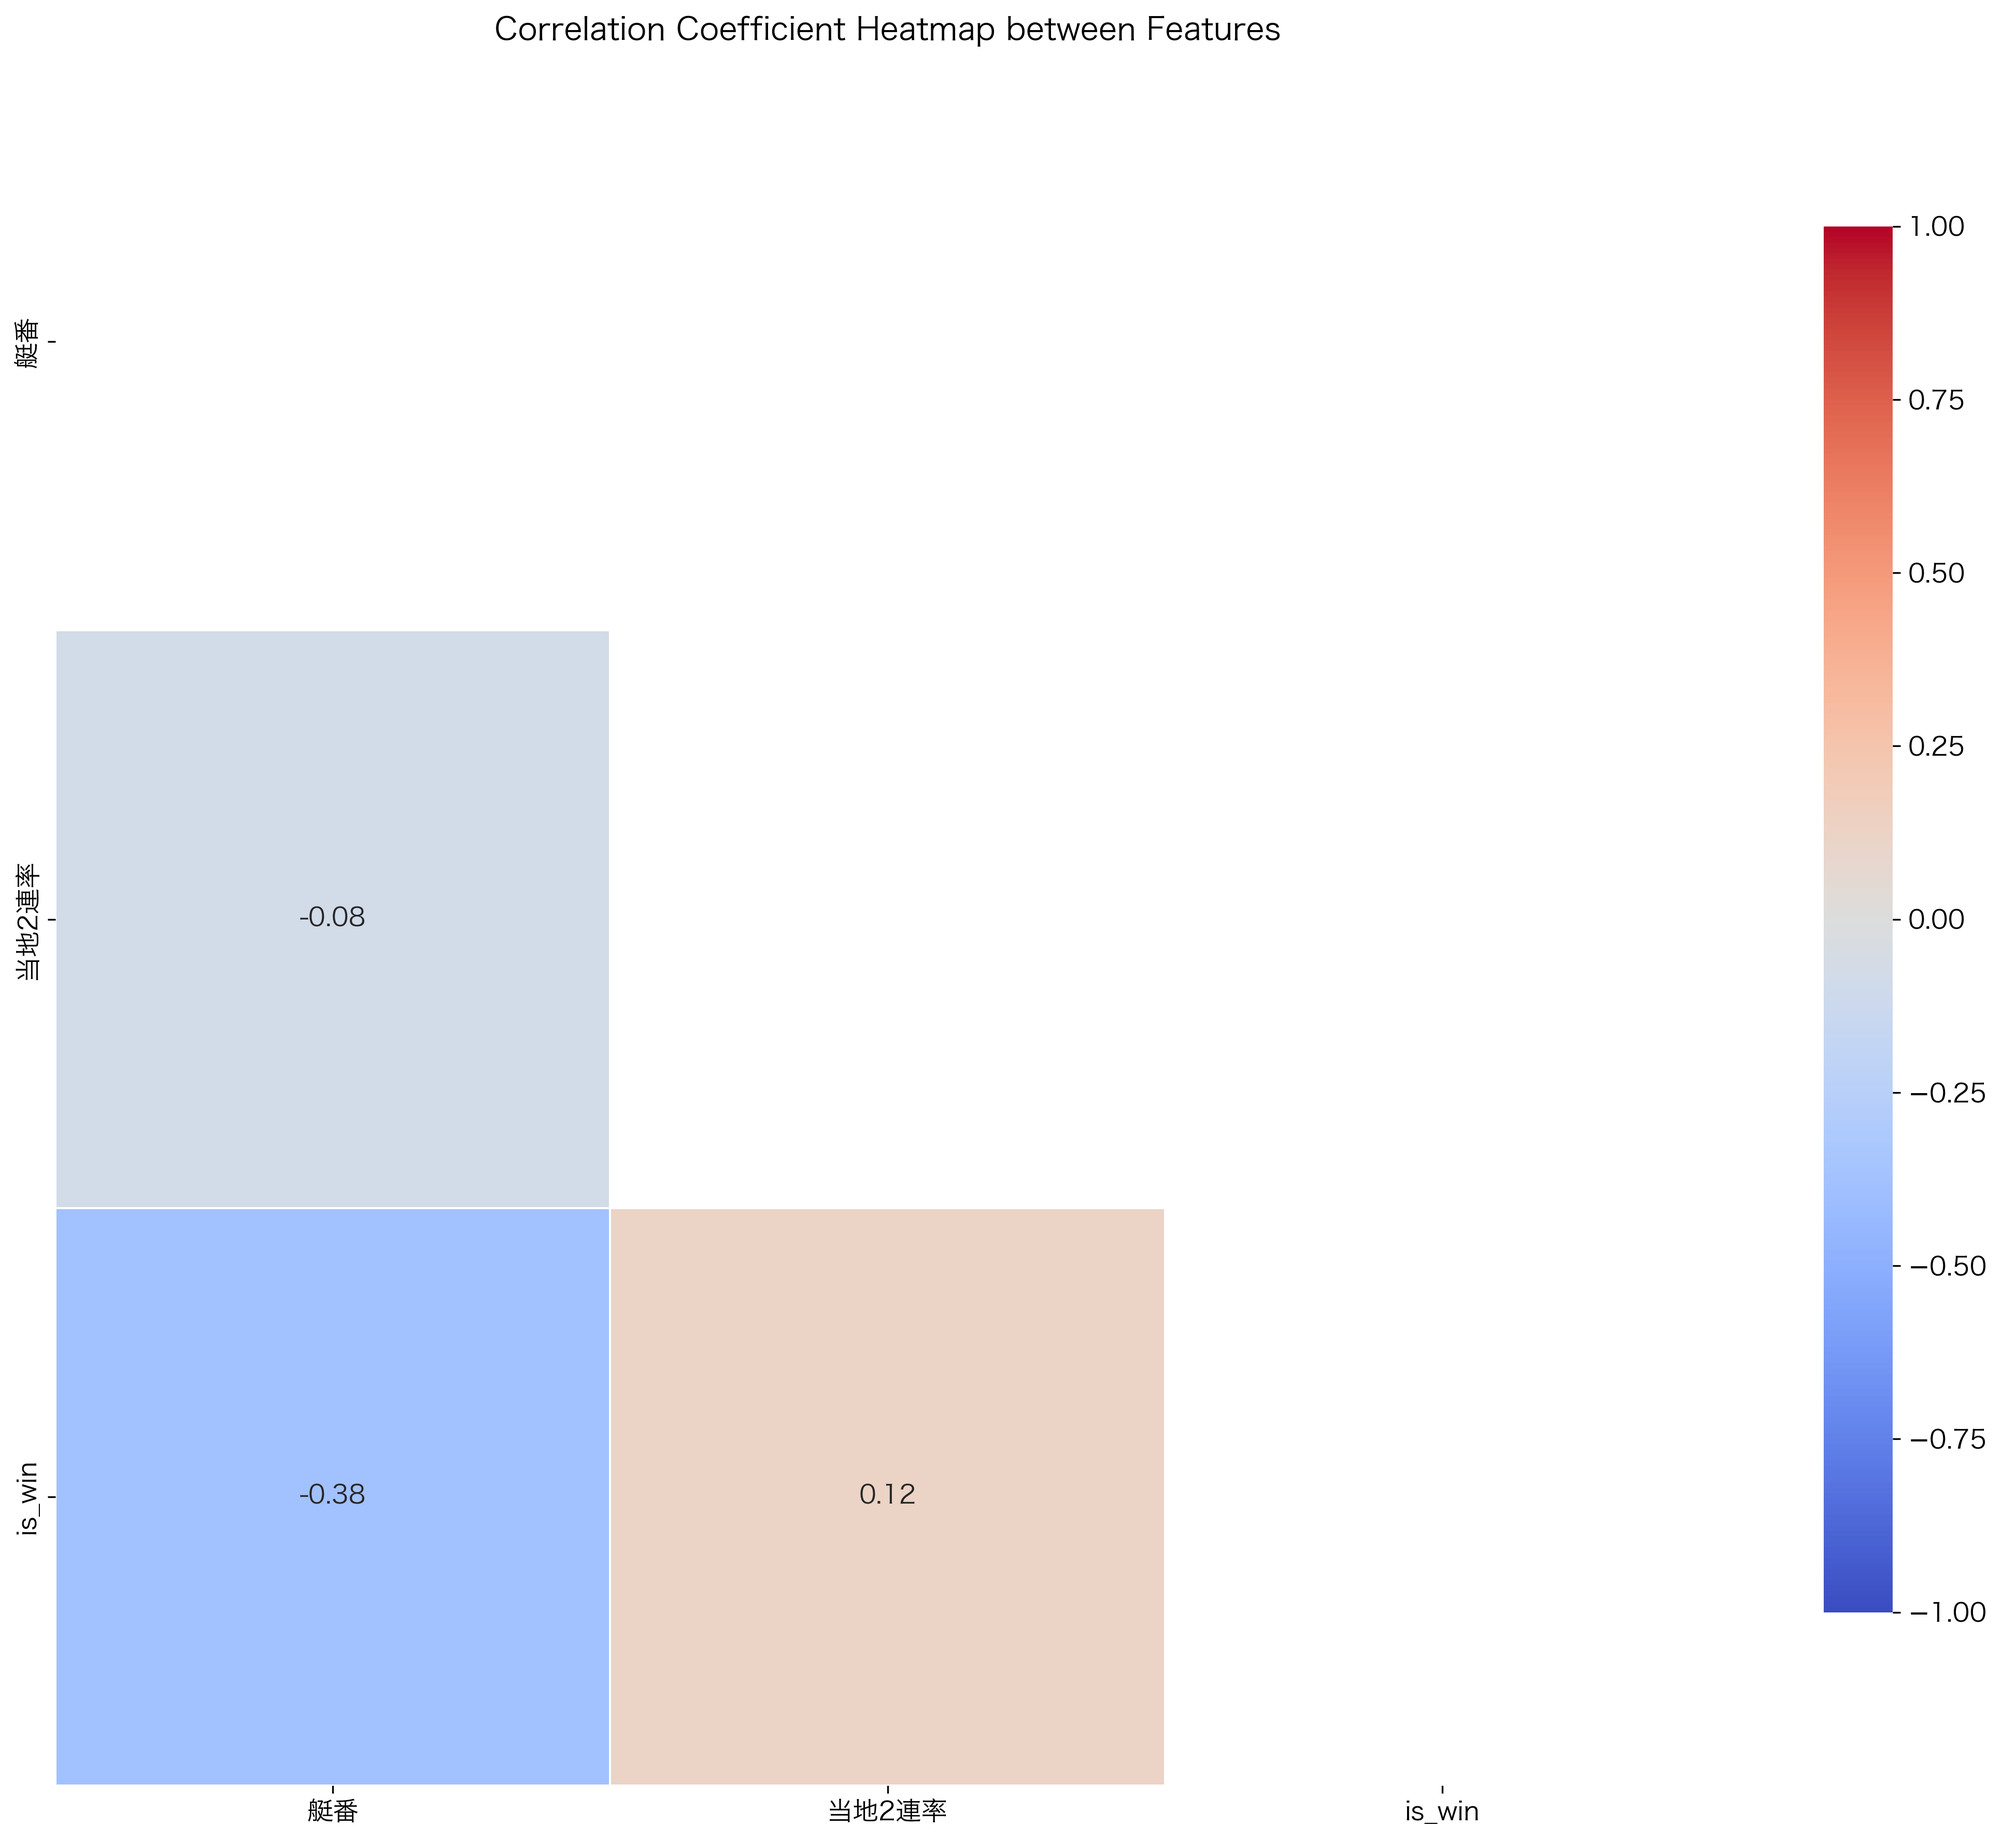
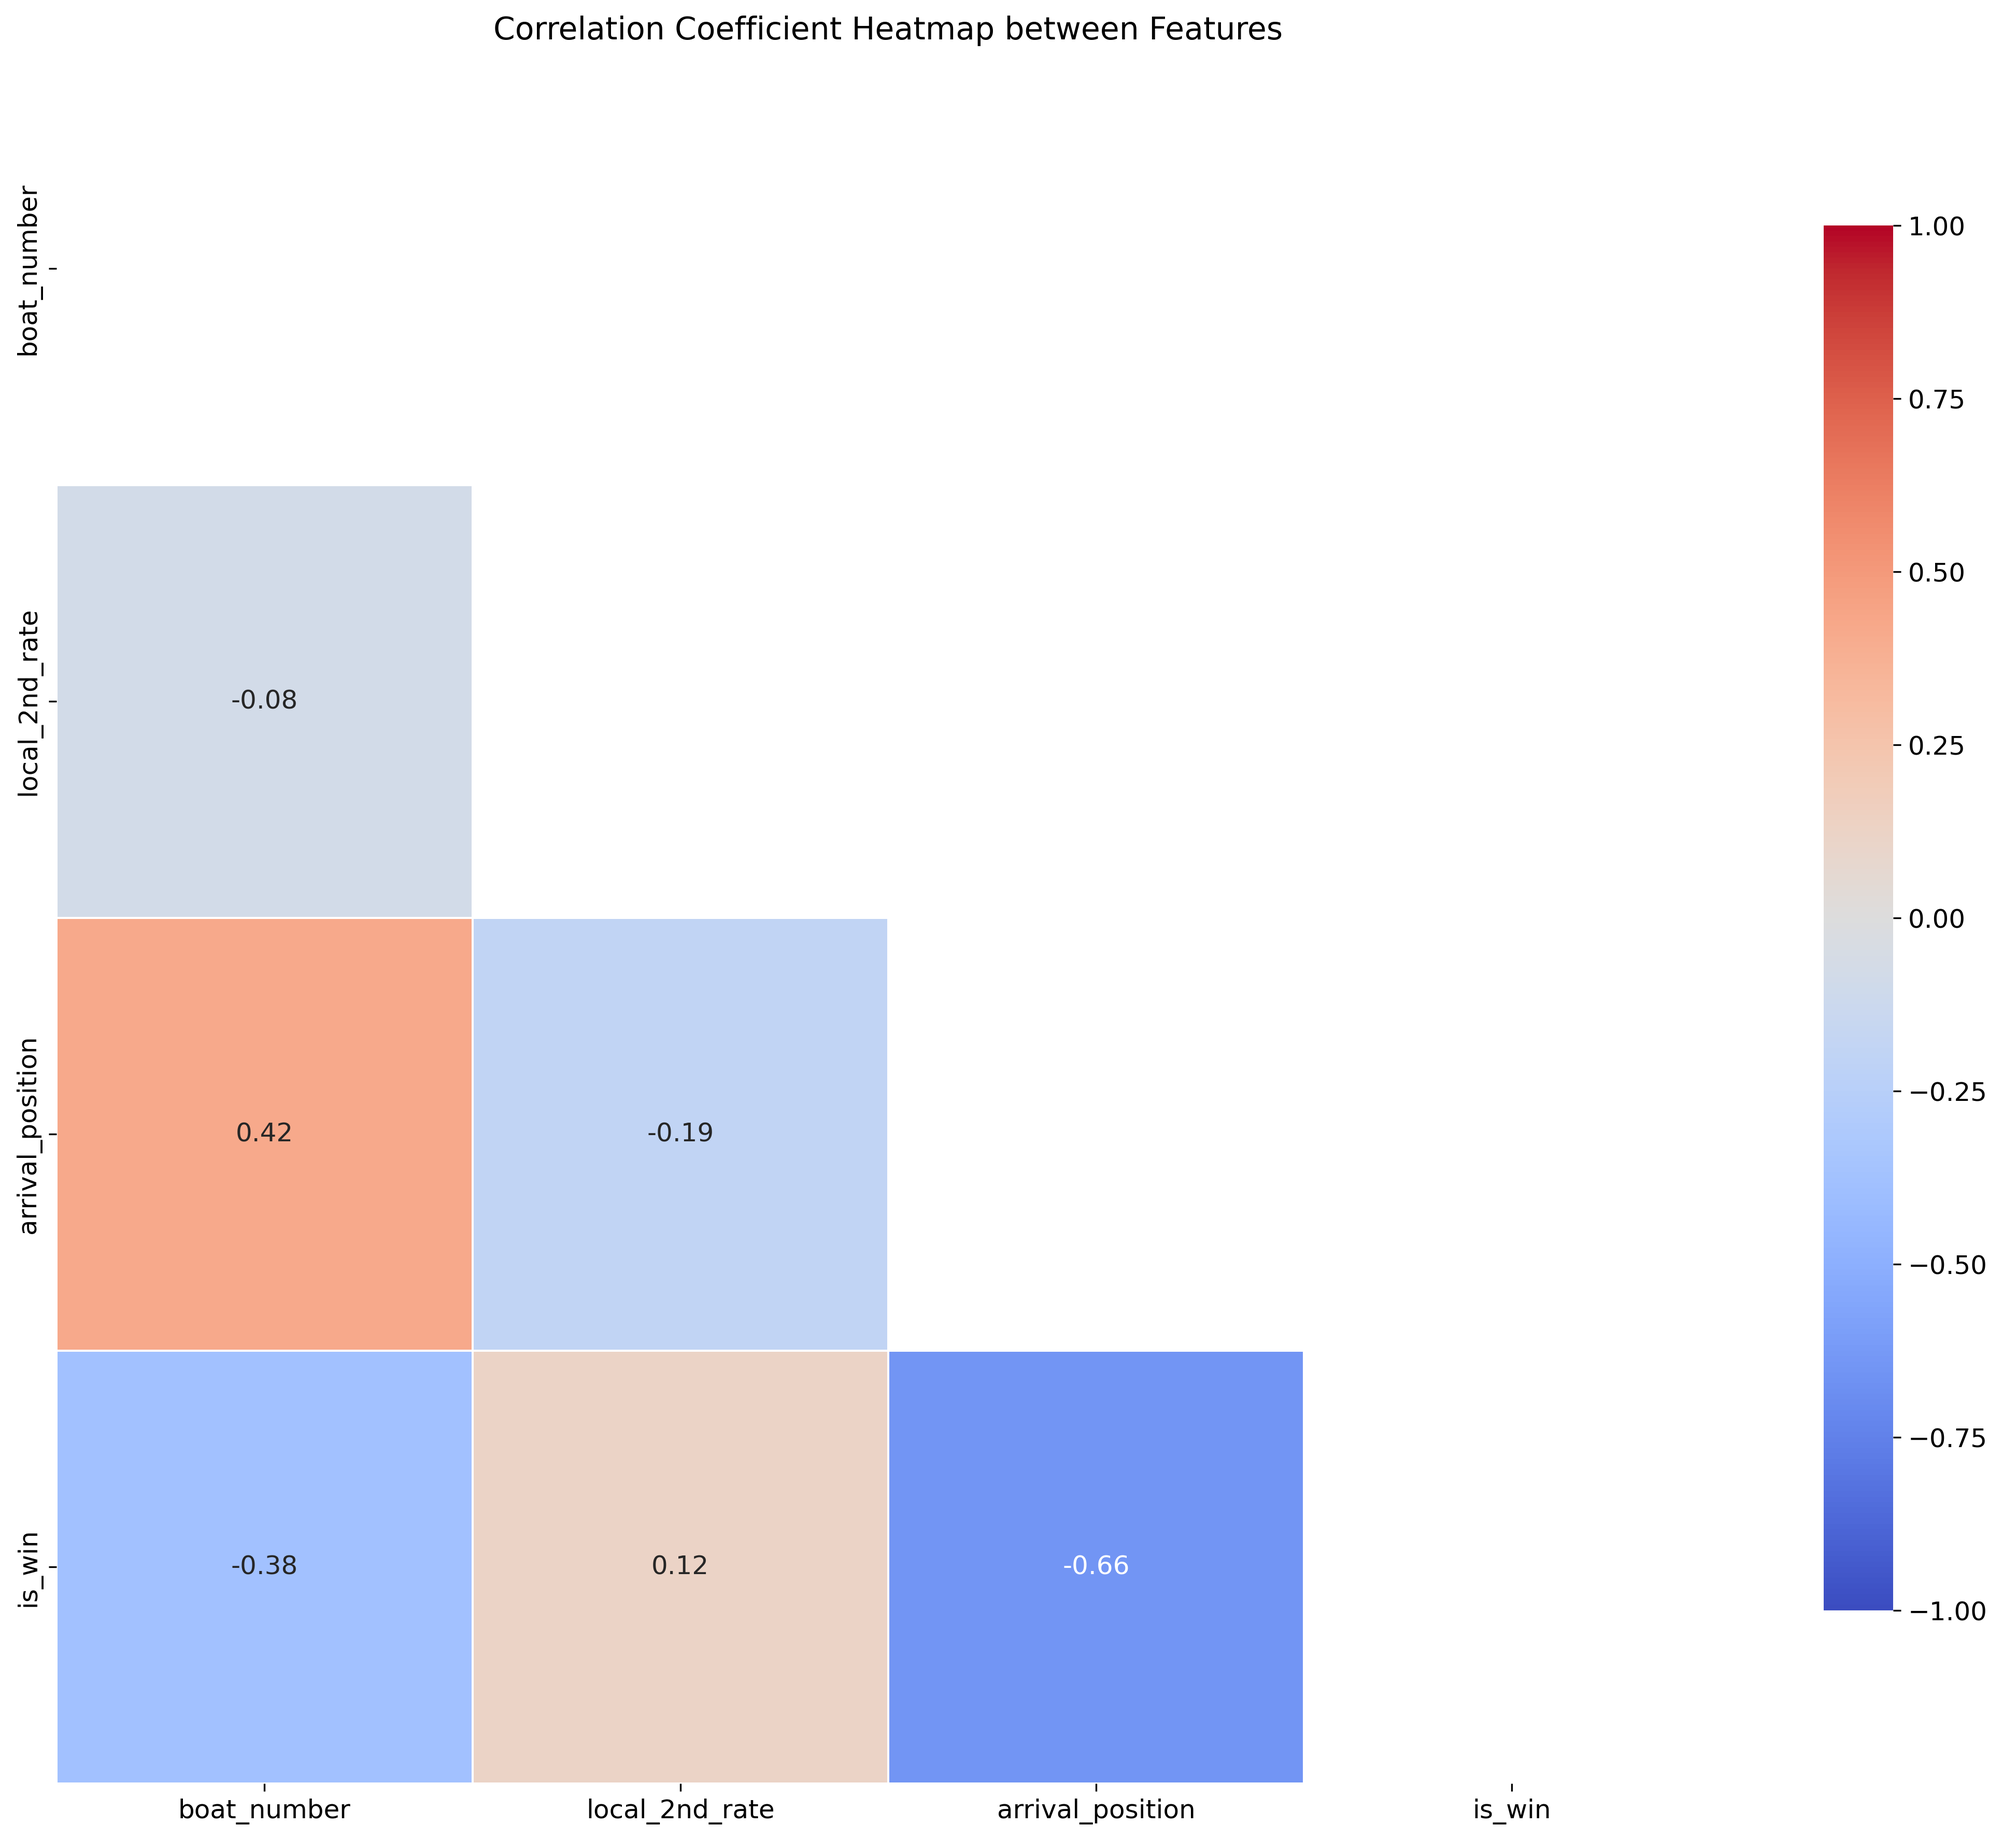
Add function to convert Japanese column names into English

diff --git a/scripts/4_explore_data.py b/scripts/4_explore_data.py
@@ -24,9 +24,14 @@ from tabulate import tabulate
 import matplotlib as mpl
 from sklearn.preprocessing import LabelEncoder
 
+# Add the project root directory to the Python path to import modules from there
+sys.path.insert(0, os.path.abspath(os.path.join(os.path.dirname(__file__), '..')))
+# Import translation function from utils.py
+from utils import translate_columns_to_english, get_japanese_to_english_columns_mapping
 
-# Japanese font settings
-mpl.rcParams['font.family'] = ['Hiragino Sans GB', 'AppleGothic', 'Yu Gothic', 'Meiryo', 'sans-serif']
+
+# Font settings - changed from Japanese-specific to use standard sans-serif
+mpl.rcParams['font.family'] = ['sans-serif']
 # Set font size larger
 plt.rcParams['font.size'] = 12
 # Check the directory for saving graphs
@@ -56,6 +61,23 @@ def analyze_data(input_file):
         # Read the CSV file
         print(f"Reading file '{input_file}'...")
         df = pd.read_csv(input_file)
+        
+        # Store original Japanese column names for reference
+        original_columns = df.columns.tolist()
+        
+        # Get mapping dictionary for later reference
+        column_mapping = get_japanese_to_english_columns_mapping()
+        
+        # Translate column names from Japanese to English
+        df = translate_columns_to_english(df)
+        
+        # Show mapping between Japanese and English column names
+        print("\n===== Column Name Translation (Japanese -> English) =====")
+        for orig_col in original_columns:
+            if orig_col in column_mapping:
+                print(f"{orig_col} -> {column_mapping[orig_col]}")
+            else:
+                print(f"{orig_col} -> (no translation available)")
         
         # Display basic information
         print("\n===== Basic Data Information =====")
@@ -166,15 +188,16 @@ def analyze_data(input_file):
         
         # Analyze date columns
         try:
-            if 'date' in df.columns:
+            date_col = 'date'
+            if date_col in df.columns:
                 print("\n===== Analysis of Date Column =====")
-                df['date'] = pd.to_datetime(df['date'])
-                date_range = df['date'].max() - df['date'].min()
-                print(f"Date range: {df['date'].min()} to {df['date'].max()} ({date_range.days} days)")
-                print(f"Number of unique dates: {df['date'].nunique()}")
+                df[date_col] = pd.to_datetime(df[date_col])
+                date_range = df[date_col].max() - df[date_col].min()
+                print(f"Date range: {df[date_col].min()} to {df[date_col].max()} ({date_range.days} days)")
+                print(f"Number of unique dates: {df[date_col].nunique()}")
                 
                 # Data count by month
-                monthly_counts = df['date'].dt.to_period('M').value_counts().sort_index()
+                monthly_counts = df[date_col].dt.to_period('M').value_counts().sort_index()
                 print("\nData count by month:")
                 for period, count in monthly_counts.items():
                     print(f"{period}: {count} entries")
@@ -185,10 +208,18 @@ def analyze_data(input_file):
         print("\n===== Analysis of Target Variable (Rank 1 or Not) =====")
         
         # Create is_win column indicating whether the rank is 1st or not (if not exists)
-        if "is_win" not in df.columns and "着" in df.columns:  # "着" means "Rank"
-            df["is_win"] = df["着"].apply(lambda x: 1 if x == 1 else 0)
-            print("Created is_win column from rank")
-        elif "is_win" not in df.columns:
+        arrival_position_col = 'arrival_position'
+        is_win_col = 'is_win'
+        
+        # Check if is_win exists or can be created from arrival_position (formerly "着")
+        if is_win_col not in df.columns and arrival_position_col in df.columns:
+            df[is_win_col] = df[arrival_position_col].apply(lambda x: 1 if x == 1 else 0)
+            print(f"Created {is_win_col} column from {arrival_position_col}")
+        elif is_win_col not in df.columns and "着" in original_columns:  # Handle case where column wasn't translated
+            japanese_col = "着"
+            df[is_win_col] = df[japanese_col].apply(lambda x: 1 if x == 1 else 0)
+            print(f"Created {is_win_col} column from {japanese_col}")
+        elif is_win_col not in df.columns:
             print("Warning: Skipping target variable analysis due to lack of rank data")
             return True
         
@@ -321,7 +352,7 @@ def analyze_data(input_file):
             for col in selected_cats:
                 # Calculate win rate by category
                 if df[col].nunique() <= 15:  # Only if the number of categories is not too large
-                    win_rate_by_cat = df.groupby(col)["is_win"].mean().sort_values(ascending=False)
+                    win_rate_by_cat = df.groupby(col)[is_win_col].mean().sort_values(ascending=False)
                     counts_by_cat = df.groupby(col).size()
                     
                     # Create dataframe to display
@@ -352,17 +383,45 @@ def analyze_data(input_file):
                     plt.grid(axis='y', linestyle='--', alpha=0.7)
                     plt.tight_layout()
                     
-                    # Save graph
-                    graph_path = f"{GRAPHS_DIR}/win_rate_by_{col.replace(' ', '_')}.png"
+                    # Generate a safe filename without Japanese characters
+                    safe_col_name = col.replace(' ', '_').replace('/', '_')
+                    graph_path = f"{GRAPHS_DIR}/win_rate_by_{safe_col_name}.png"
                     plt.savefig(graph_path, dpi=300, bbox_inches='tight')
                     print(f"Saved win rate graph: {graph_path}")
                     plt.close()
         
         # Relationship between target variable and boat number
-        if "艇番" in df.columns:  # "艇番" means "Boat Number"
+        boat_number_col = 'boat_number'
+        if boat_number_col in df.columns:
             plt.figure(figsize=(10, 6))
-            win_by_lane = df.groupby("艇番")["is_win"].mean().sort_index() * 100
-            counts_by_lane = df.groupby("艇番").size()
+            win_by_lane = df.groupby(boat_number_col)[is_win_col].mean().sort_index() * 100
+            counts_by_lane = df.groupby(boat_number_col).size()
+            
+            # Bar plot
+            ax = sns.barplot(x=win_by_lane.index, y=win_by_lane.values, palette="Blues_d")
+            
+            # Display values and sample size on top of bars
+            for i, p in enumerate(ax.patches):
+                lane_idx = win_by_lane.index[i]
+                ax.annotate(f'{p.get_height():.1f}%\n(n={counts_by_lane[lane_idx]})', 
+                          (p.get_x() + p.get_width() / 2., p.get_height()), 
+                          ha = 'center', va = 'bottom', 
+                          xytext = (0, 5), textcoords = 'offset points')
+            
+            plt.title("Win Rate by Boat Number")
+            plt.xlabel("Boat Number")
+            plt.ylabel("Win Rate (%)")
+            plt.grid(axis='y', linestyle='--', alpha=0.7)
+            plt.tight_layout()
+            plt.savefig(f"{GRAPHS_DIR}/win_rate_by_lane.png", dpi=300, bbox_inches='tight')
+            print(f"Saved win rate by boat number graph: {GRAPHS_DIR}/win_rate_by_lane.png")
+            plt.close()
+        elif "艇番" in original_columns:  # Handle case where column wasn't translated
+            # Try to use the original Japanese column name
+            japanese_col = "艇番"
+            plt.figure(figsize=(10, 6))
+            win_by_lane = df.groupby(japanese_col)[is_win_col].mean().sort_index() * 100
+            counts_by_lane = df.groupby(japanese_col).size()
             
             # Bar plot
             ax = sns.barplot(x=win_by_lane.index, y=win_by_lane.values, palette="Blues_d")

diff --git a/utils.py b/utils.py
@@ -62,3 +62,83 @@ def preprocess_boatrace_dataframe(df):
         df[f"{col}_dev"] = df.groupby("レースID")[col].transform(calculate_deviation_score)  # Race ID
 
     return df
+
+# Column name mapping function - Japanese to English
+
+def get_japanese_to_english_columns_mapping():
+    """
+    Returns a dictionary that maps Japanese column names to English column names
+    for the datasets in the boatrace predictor project.
+    
+    Returns:
+        dict: A dictionary with Japanese column names as keys and English column names as values
+    """
+    return {
+        # Common columns for merged and race_info datasets
+        "選手登録番": "player_registration_number",
+        "レースID": "race_id",
+        "艇番": "boat_number",
+        "年齢": "age",
+        "支部": "branch",
+        "体重": "weight",
+        "級別": "class",
+        "全国勝率": "national_win_rate",
+        "全国2連率": "national_2nd_rate",
+        "当地勝率": "local_win_rate",
+        "当地2連率": "local_2nd_rate",
+        "モーター2連率": "motor_2nd_rate",
+        "ボート2連率": "boat_2nd_rate",
+        "会場": "venue",
+        "日付": "date",
+        "着": "arrival_position",
+        "選手名": "player_name",
+        "展示タイム": "exhibition_time",
+        "天候": "weather",
+        "風向": "wind_direction",
+        "風量": "wind_volume",
+        "波": "wave",
+        "単勝オッズ": "win_odds",
+        
+        # Additional columns in preprocessed dataset
+        "月": "month",
+        "曜日": "day_of_week",
+        "is_win": "is_win",
+        "全国勝率_dev": "national_win_rate_dev",
+        "全国2連率_dev": "national_2nd_rate_dev",
+        "当地勝率_dev": "local_win_rate_dev",
+        "当地2連率_dev": "local_2nd_rate_dev",
+        "モーター2連率_dev": "motor_2nd_rate_dev",
+        "ボート2連率_dev": "boat_2nd_rate_dev",
+        "展示タイム_dev": "exhibition_time_dev",
+        
+        # Additional columns in race_info dataset
+        "レース場": "race_track",
+        "レース番号": "race_number",
+        "締切予定時刻": "closing_time",
+        "ステータス": "status",
+        "モーター番号": "motor_number",
+        "ボート番号": "boat_id",
+        "進入": "entry"
+    }
+
+def translate_columns_to_english(df):
+    """
+    Translates the column names of a dataframe from Japanese to English
+    
+    Args:
+        df (pandas.DataFrame): DataFrame with Japanese column names
+    
+    Returns:
+        pandas.DataFrame: DataFrame with English column names
+    """
+    mapping = get_japanese_to_english_columns_mapping()
+    renamed_columns = {}
+    
+    for col in df.columns:
+        if col in mapping:
+            renamed_columns[col] = mapping[col]
+    
+    # Only rename columns that exist in the mapping
+    if renamed_columns:
+        return df.rename(columns=renamed_columns)
+    return df
